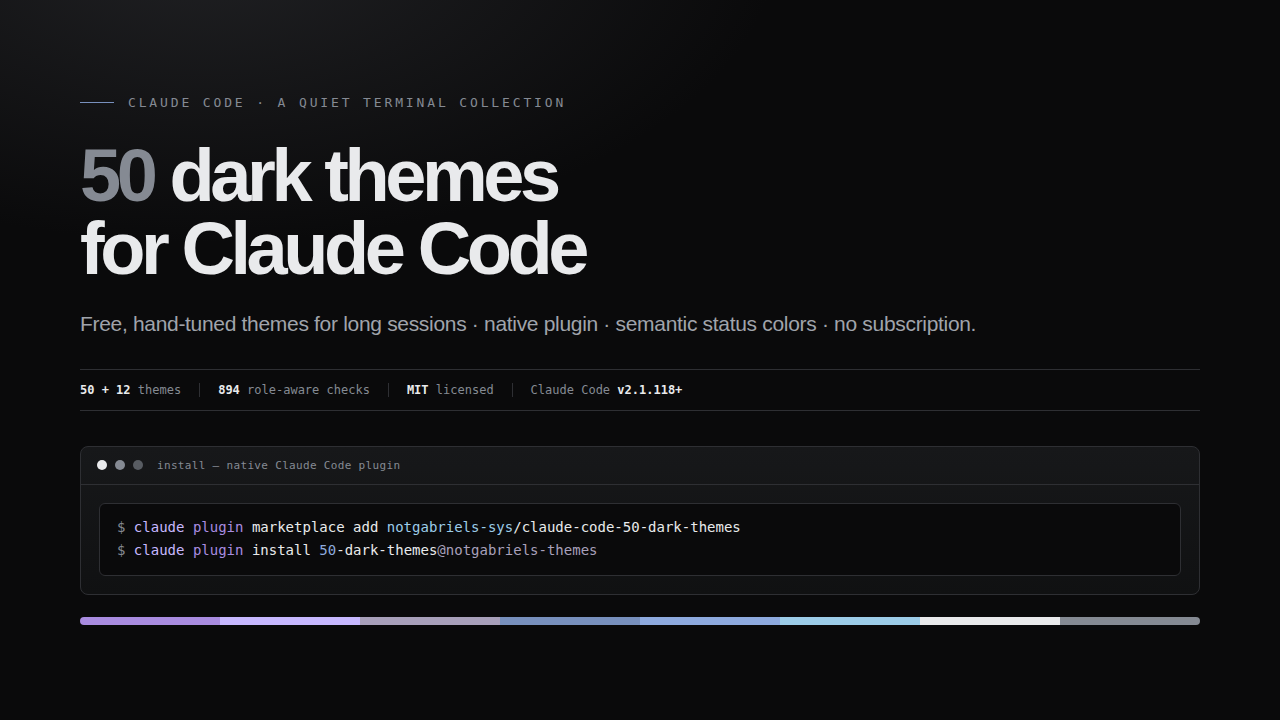
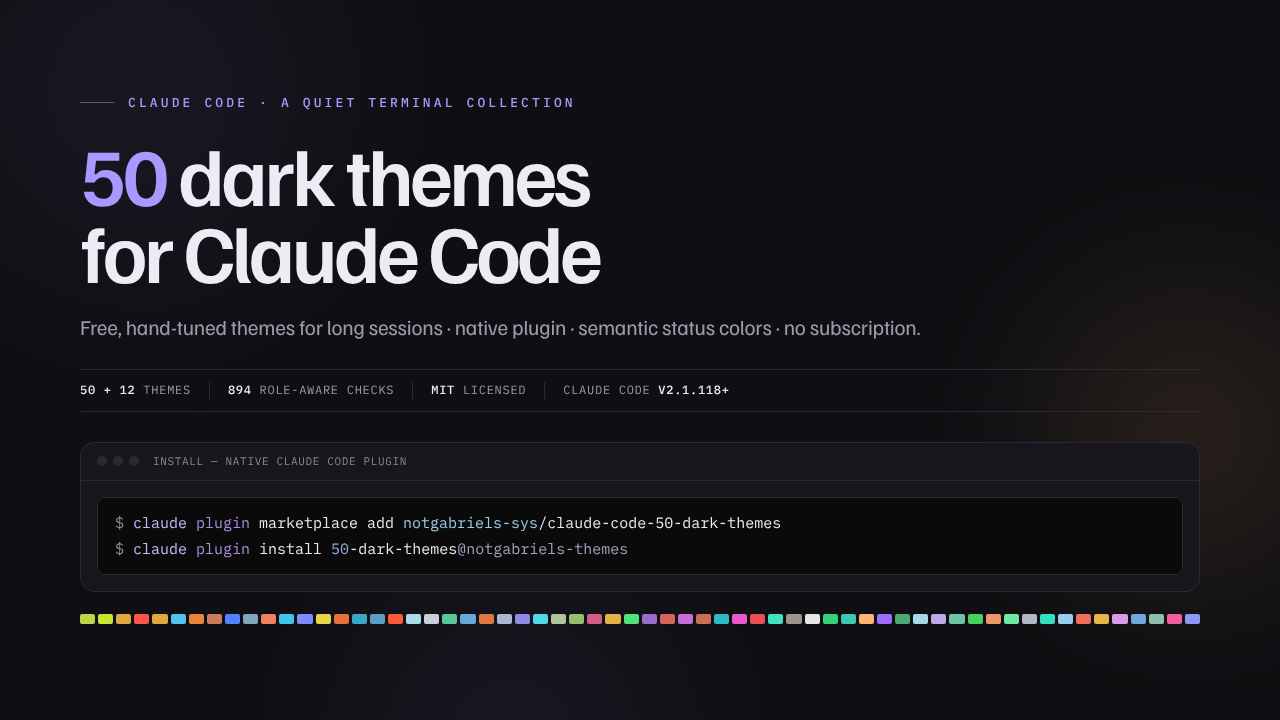
Share card wears the site's base; preview.png re-rendered from it
assets/social-preview.html now links assets/site.css, pinned dark
(data-theme on the root), with the ambient lights held still and no
script: the Familiars palette, Familjen Grotesk and IBM Plex Mono from
the site's own fonts. The install command stays a specimen in the
storefront's coding palette. The strip is now the accent of every theme
in the theme index's order, which is what every page's share-image
description already said it was (it was the coding palette).

scripts/render-share-card.mjs serves the repository on 127.0.0.1 and
draws the card in headless Chromium at 1280 x 720, device scale 1, dark,
reduced motion, after its fonts load, refusing any off-site request, and
writes preview.png. It needs Playwright, which CI's verify job lacks.

Guard:
- site-style.mjs SHARE_CARDS: pageProblems with { card: true } skips
  the switches and their script, and requires the dark pin, no script
  and still lights.
- verify reads the strip against the theme files (loadThemes) and fails
  a changed, missing, reordered or extra swatch.
- preview.png must be a 1280 x 720 PNG.

Proven: main's card fails the new verify ("strip is not the accent of
every theme in order"); this one passes. Seven mutations (the pin, the
script and still-light rules, the card loop, the strip check, its
leftover-markup branch, the PNG check) each turn their own tests red.

CONTRIBUTING says how to render the card and that CI cannot check the
image came from it.
[…]

diff --git a/assets/social-preview.html b/assets/social-preview.html
@@ -1,59 +1,62 @@
 <!doctype html>
-<html lang="en">
+<html lang="en" data-theme="dark">
 <head>
 <meta charset="utf-8">
 <meta http-equiv="Content-Security-Policy" content="script-src 'none'; worker-src 'none'; object-src 'none'; frame-src 'none'; base-uri 'none'; form-action 'none'">
 <meta name="viewport" content="width=1280,initial-scale=1">
 <title>50 Dark Themes for Claude Code — social preview source</title>
+<link rel="stylesheet" href="site.css">
 <style>
-  :root{
-    color-scheme:dark;
-    --terminal-surface:#0a0a0b;--ground:#0f1011;--raised:#17181a;--hair:#2e2f33;
-    --ink:#e9eaec;--muted:#a0a4ab;--syntax-dark-grey:#858a93;
-    --syntax-purple:#a98ce0;--syntax-light-purple:#c7b8ff;--syntax-grey-purple:#a8a0ba;
-    --syntax-dark-blue:#7890bd;--syntax-blue:#8eaadf;--syntax-light-blue:#9ccce8;
-    font-family:ui-monospace,"SF Mono",SFMono-Regular,Menlo,Consolas,monospace;
-  }
-  *{box-sizing:border-box}
-  html,body{width:1280px;height:720px;margin:0;overflow:hidden}
-  body{
-    display:grid;place-items:center;background:
-      radial-gradient(820px 430px at 16% -8%,rgba(46,47,51,.62),rgba(46,47,51,0) 70%),
-      var(--terminal-surface);color:var(--ink);
-  }
-  main{width:1120px}
-  .kicker{display:flex;align-items:center;gap:14px;margin:0 0 30px;color:var(--syntax-dark-grey);font-size:13px;letter-spacing:.22em;text-transform:uppercase}
-  .kicker::before{content:"";width:34px;height:1px;background:var(--syntax-dark-blue)}
-  h1{margin:0;font:550 74px/.98 ui-sans-serif,-apple-system,BlinkMacSystemFont,"Segoe UI",sans-serif;letter-spacing:-.06em}
-  h1 span{color:var(--syntax-dark-grey)}
-  .lead{margin:23px 0 0;color:var(--muted);font:21px/1.5 ui-sans-serif,-apple-system,BlinkMacSystemFont,"Segoe UI",sans-serif;letter-spacing:-.015em}
-  .meta{display:flex;gap:0;margin:29px 0 35px;padding:13px 0;border-top:1px solid var(--hair);border-bottom:1px solid var(--hair);color:var(--syntax-dark-grey);font-size:12px}
-  .meta span{padding-right:18px;margin-right:18px;border-right:1px solid var(--hair)}
-  .meta span:last-child{border:0}.meta b{color:var(--ink);font-weight:650}
-  .terminal{border:1px solid var(--hair);border-radius:8px;background:linear-gradient(180deg,var(--raised),#101112);overflow:hidden}
-  .bar{display:flex;align-items:center;gap:8px;padding:12px 16px;border-bottom:1px solid var(--hair);color:var(--syntax-dark-grey);font-size:11px;letter-spacing:.03em}
-  .dot{width:10px;height:10px;border-radius:50%;background:var(--ink)}
-  .dot:nth-child(2){background:var(--syntax-dark-grey)}.dot:nth-child(3){background:#585c62}
-  .label{margin-left:6px}
-  .command{display:grid;gap:2px;margin:18px;padding:13px 17px;border:1px solid var(--hair);border-radius:6px;background:var(--terminal-surface);font-size:14px;line-height:1.55}
-  .command .line{white-space:nowrap}
-  .prompt{color:var(--syntax-dark-grey)}.cmd{color:var(--syntax-light-purple)}.keyword{color:var(--syntax-purple)}.sub,.arg,.value,.default{color:var(--ink)}.type{color:var(--syntax-light-blue)}.version,.option{color:var(--syntax-dark-blue)}.constant{color:var(--syntax-blue)}.scope{color:var(--syntax-grey-purple)}.op{color:var(--syntax-dark-grey)}
-  .roles{display:grid;grid-template-columns:repeat(8,1fr);height:8px;margin-top:22px;overflow:hidden;border-radius:4px}
-  .roles i:nth-child(1){background:var(--syntax-purple)}.roles i:nth-child(2){background:var(--syntax-light-purple)}.roles i:nth-child(3){background:var(--syntax-grey-purple)}.roles i:nth-child(4){background:var(--syntax-dark-blue)}
-  .roles i:nth-child(5){background:var(--syntax-blue)}.roles i:nth-child(6){background:var(--syntax-light-blue)}.roles i:nth-child(7){background:var(--ink)}.roles i:nth-child(8){background:var(--syntax-dark-grey)}
+/* The share card, drawn at 1280 x 720 and rendered to preview.png by
+   scripts/render-share-card.mjs. It wears assets/site.css, pinned dark (data-theme on the
+   root), and runs no script; the install command is a specimen in the storefront's coding
+   palette, and the strip is the accent of every theme, in the theme index's order. */
+:root{
+  --syntax-purple:#a98ce0;--syntax-light-purple:#c7b8ff;--syntax-grey-purple:#a8a0ba;
+  --syntax-dark-blue:#7890bd;--syntax-blue:#8eaadf;--syntax-light-blue:#9ccce8;--syntax-dark-grey:#858a93;
+  --terminal-surface:#0a0a0b;
+}
+.specimen{--ink:#e9eaec;}
+*{box-sizing:border-box}
+html,body{width:1280px;height:720px;margin:0;overflow:hidden}
+body{display:grid;place-items:center}
+main{position:relative;z-index:1;width:1120px}
+.kicker{display:flex;align-items:center;gap:14px;margin:0 0 26px;color:var(--accent);font:500 13px/1 var(--mono);letter-spacing:.24em;text-transform:uppercase}
+.kicker::before{content:"";width:34px;height:1px;background:var(--accent-dim)}
+h1{margin:0;font:600 82px/.94 var(--display);letter-spacing:-.045em;color:var(--ink)}
+h1 span{color:var(--accent)}
+.lead{margin:22px 0 0;color:var(--mute);font:21px/1.5 var(--body);letter-spacing:-.01em}
+.meta{display:flex;margin:26px 0 30px;padding:12px 0;border-top:1px solid var(--hair);border-bottom:1px solid var(--hair);color:var(--mute);font:12px/1.4 var(--mono);letter-spacing:.06em;text-transform:uppercase}
+.meta span{padding-right:18px;margin-right:18px;border-right:1px solid var(--hair)}
+.meta span:last-child{border:0}.meta b{color:var(--ink);font-weight:500}
+.terminal{border:1px solid var(--hair);border-radius:var(--radius-card);background:var(--ground-2);overflow:hidden}
+.specimen .bar{display:flex;align-items:center;gap:8px;padding:11px 16px;border-bottom:1px solid var(--hair);color:var(--syntax-dark-grey);font:11px/1.4 var(--mono);letter-spacing:.06em;text-transform:uppercase}
+.specimen .dots{display:flex;gap:6px}
+.specimen .dots i{width:10px;height:10px;border-radius:50%;background:var(--hair)}
+.specimen .label{margin-left:6px}
+.specimen .command{display:grid;gap:2px;margin:16px;padding:13px 17px;border:1px solid var(--hair);border-radius:8px;background:var(--terminal-surface);color:var(--ink);font:15px/1.6 var(--mono)}
+.specimen .line{white-space:nowrap}
+.specimen .prompt{color:var(--syntax-dark-grey)}.specimen .cmd{color:var(--syntax-light-purple)}.specimen .keyword{color:var(--syntax-purple)}.specimen .sub,.specimen .arg,.specimen .value{color:var(--ink)}.specimen .type{color:var(--syntax-light-blue)}.specimen .constant{color:var(--syntax-blue)}.specimen .scope{color:var(--syntax-grey-purple)}
+.strip{display:flex;gap:3px;height:10px;margin-top:22px}
+.swatch{flex:1;border-radius:2px;background:var(--c)}
+@media (prefers-reduced-motion: no-preference) {
+  /* No script runs here, so data-motion is never set and the lights stay still. */
+  :root:not([data-motion]) .lights span { animation: none; }
+}
 </style>
 </head>
 <body>
+<div class="lights" aria-hidden="true"><span class="l1"></span><span class="l2"></span><span class="l3"></span></div>
 <main>
   <p class="kicker">Claude Code · a quiet terminal collection</p>
   <h1><span>50</span> dark themes<br>for Claude Code</h1>
   <p class="lead">Free, hand-tuned themes for long sessions · native plugin · semantic status colors · no subscription.</p>
   <div class="meta"><span><b>50 + 12</b> themes</span><span><b>894</b> role-aware checks</span><span><b>MIT</b> licensed</span><span>Claude Code <b>v2.1.118+</b></span></div>
-  <section class="terminal" aria-label="Color-coded install command preview">
-    <div class="bar"><i class="dot"></i><i class="dot"></i><i class="dot"></i><span class="label">install — native Claude Code plugin</span></div>
+  <section class="terminal specimen" aria-label="Color-coded install command preview">
+    <div class="bar"><span class="dots" aria-hidden="true"><i></i><i></i><i></i></span><span class="label">install — native Claude Code plugin</span></div>
     <div class="command"><span class="line"><span class="prompt">$ </span><span class="cmd">claude</span> <span class="keyword">plugin</span> <span class="sub">marketplace add</span> <span class="arg"><span class="type">notgabriels-sys</span>/claude-code-50-dark-themes</span></span><span class="line"><span class="prompt">$ </span><span class="cmd">claude</span> <span class="keyword">plugin</span> <span class="sub">install</span> <span class="value"><span class="constant">50</span>-dark-themes<span class="scope">@notgabriels-themes</span></span></span></div>
   </section>
-  <div class="roles" aria-hidden="true"><i></i><i></i><i></i><i></i><i></i><i></i><i></i><i></i></div>
+  <div class="strip" aria-label="The accent of each theme"><i class="swatch" style="--c:#C0D648"></i><i class="swatch" style="--c:#C8E62E"></i><i class="swatch" style="--c:#E0A83C"></i><i class="swatch" style="--c:#FF5548"></i><i class="swatch" style="--c:#E0A83C"></i><i class="swatch" style="--c:#52C2F0"></i><i class="swatch" style="--c:#E8853C"></i><i class="swatch" style="--c:#C97B5A"></i><i class="swatch" style="--c:#5280FE"></i><i class="swatch" style="--c:#7FA6B8"></i><i class="swatch" style="--c:#F08060"></i><i class="swatch" style="--c:#3EC8E8"></i><i class="swatch" style="--c:#7A8CFF"></i><i class="swatch" style="--c:#E8D44A"></i><i class="swatch" style="--c:#E8703C"></i><i class="swatch" style="--c:#38A8C8"></i><i class="swatch" style="--c:#5A9EC8"></i><i class="swatch" style="--c:#FF5A36"></i><i class="swatch" style="--c:#A8DCE8"></i><i class="swatch" style="--c:#C9CFD6"></i><i class="swatch" style="--c:#58C89A"></i><i class="swatch" style="--c:#62A8D8"></i><i class="swatch" style="--c:#E07840"></i><i class="swatch" style="--c:#A9B8CE"></i><i class="swatch" style="--c:#8C8CE8"></i><i class="swatch" style="--c:#4FD8E8"></i><i class="swatch" style="--c:#AFC49A"></i><i class="swatch" style="--c:#93BF6F"></i><i class="swatch" style="--c:#D25E85"></i><i class="swatch" style="--c:#E3B341"></i><i class="swatch" style="--c:#52E07A"></i><i class="swatch" style="--c:#976ECE"></i><i class="swatch" style="--c:#D7635A"></i><i class="swatch" style="--c:#C86AD8"></i><i class="swatch" style="--c:#C76F55"></i><i class="swatch" style="--c:#2FB8C6"></i><i class="swatch" style="--c:#E858C8"></i><i class="swatch" style="--c:#E64F54"></i><i class="swatch" style="--c:#40E0C0"></i><i class="swatch" style="--c:#9C958C"></i><i class="swatch" style="--c:#E4E6E8"></i><i class="swatch" style="--c:#33D17A"></i><i class="swatch" style="--c:#3FC8B0"></i><i class="swatch" style="--c:#FFB374"></i><i class="swatch" style="--c:#9D6BFF"></i><i class="swatch" style="--c:#4FA872"></i><i class="swatch" style="--c:#A8D8E8"></i><i class="swatch" style="--c:#C0A8E8"></i><i class="swatch" style="--c:#6FC4A8"></i><i class="swatch" style="--c:#46D160"></i><i class="swatch" style="--c:#F0956B"></i><i class="swatch" style="--c:#6FE8A5"></i><i class="swatch" style="--c:#AEB9C4"></i><i class="swatch" style="--c:#35E0C0"></i><i class="swatch" style="--c:#9CCBF0"></i><i class="swatch" style="--c:#F26D5B"></i><i class="swatch" style="--c:#E7B54A"></i><i class="swatch" style="--c:#DA9BE8"></i><i class="swatch" style="--c:#6FA8DC"></i><i class="swatch" style="--c:#8FBFA9"></i><i class="swatch" style="--c:#F25CA2"></i><i class="swatch" style="--c:#8E97F2"></i></div>
 </main>
 </body>
 </html>

diff --git a/CONTRIBUTING.md b/CONTRIBUTING.md
@@ -163,9 +163,13 @@ Vol. 2 themes" are fine); reword it rather than the check. A step badge ("04"), 
 a hex colour and "one theme pack" are not counts. A role-aware count is the total unless "per theme"
 or "for each theme" follows it.
 
-The share card is rendered from `assets/social-preview.html`, not screenshotted from the site. Edit
-that source, then regenerate `preview.png` at 1280×720 — the declared `og:image:width` and
-`og:image:height` depend on the size.
+The share card is rendered from `assets/social-preview.html`, not screenshotted from the site. It
+wears `assets/site.css`, pinned dark, and runs no script; its strip is the accent of every theme,
+in the theme index's order, and `verify` fails when a theme changes until the strip is redrawn.
+Edit that source, then run `node scripts/render-share-card.mjs` (it needs Playwright) to
+regenerate `preview.png` at 1280×720 — the declared `og:image:width` and `og:image:height` depend
+on the size. CI cannot check that the image was rendered from the card, so render it in the same
+change.
 
 Every public page shipping an `og:image` must state `og:image:alt`, a `twitter:image` must state a
 `twitter:image:alt` that agrees with it, and pages sharing one image must describe it identically.
